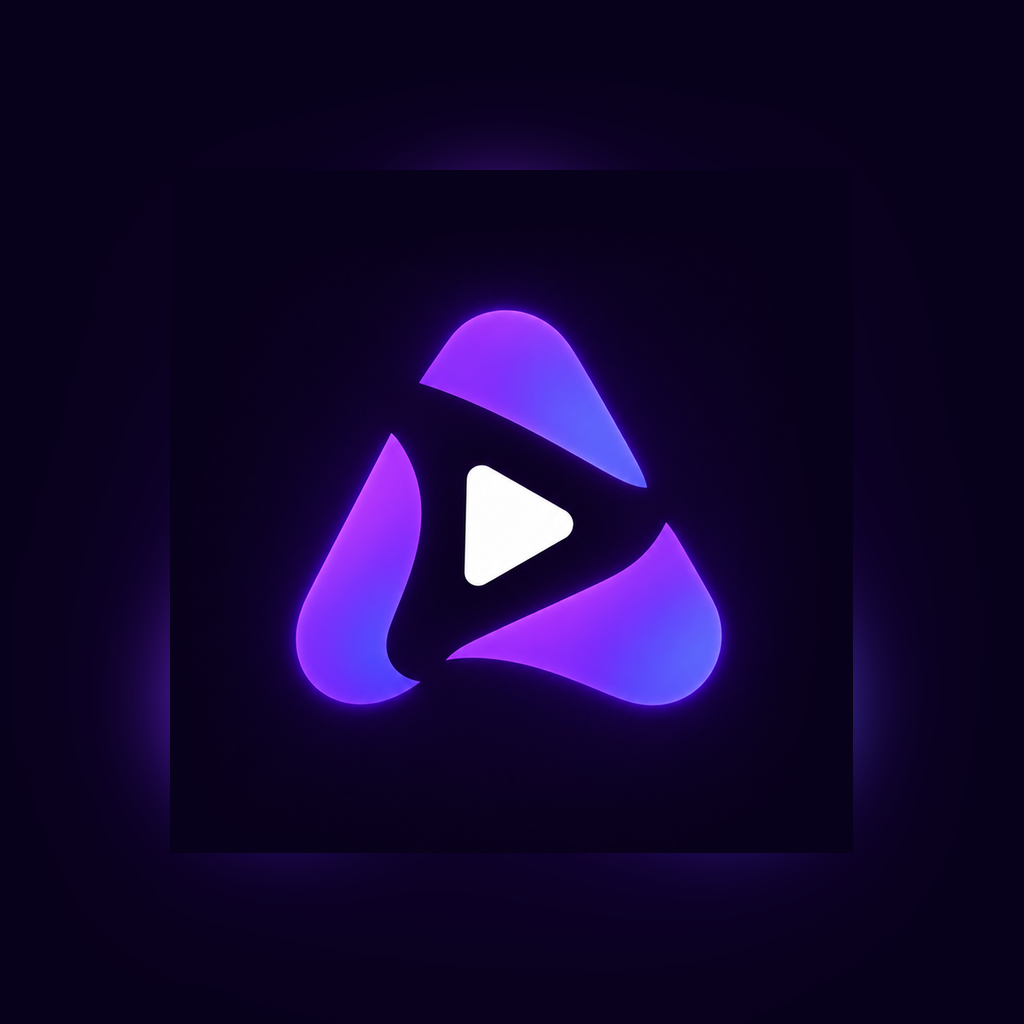
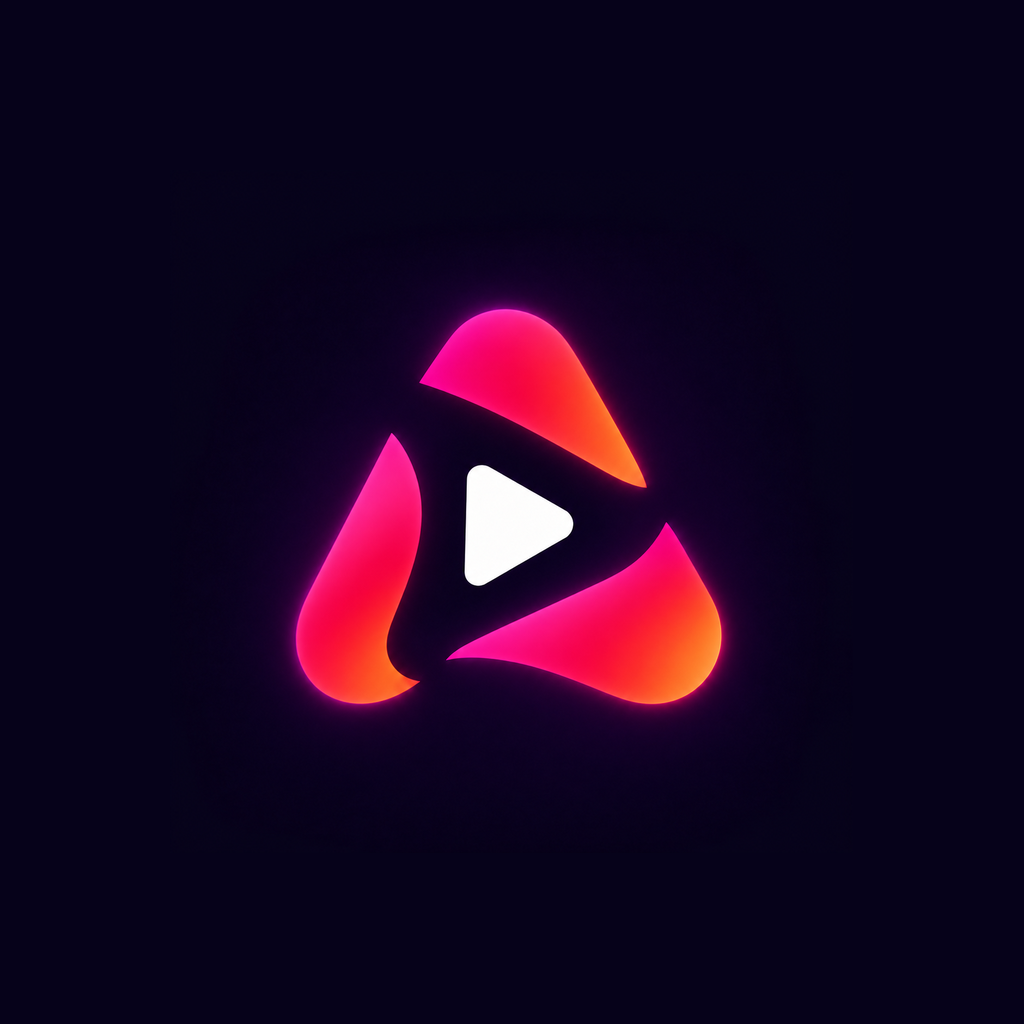
v0.12.1 double-tap guard waits for the page to open

diff --git a/src/constants/colors.ts b/src/constants/colors.ts
@@ -3,18 +3,17 @@
  * Screens use `const colors = useTheme()` and these token names.
  */
 
-// Brand palette (from the brief / logo)
+// Brand palette (new logo: magenta → red → sunset orange on deep night purple)
 export const palette = {
-  violet: "#7C3AED", // Electric Violet (gradient start)
-  indigo: "#6366F1", // Indigo (gradient end)
-  glow: "#8B5CF6", // Vibrant purple border / glow
+  magenta: "#E7237E", // Vibrant Magenta / Hot Pink — main accent, gradient start
+  strawberry: "#FF254C", // Bright Strawberry Red — glow, second accent
+  red: "#F31E37", // Vibrant Red — delete / destructive
+  orange: "#FF5622", // Sunset Orange-Red — gradient end
+  black: "#121212", // Matte Black — cards & containers (dark theme)
   deep: "#09011c", // App deep background (matches the logo background)
-  card: "#19112C", // Card & container background
   white: "#FFFFFF",
   slate: "#94A3B8", // Secondary text
-  lavender: "#A78BFA", // Muted accent text
-  canvas: "#D8C9F3", // Canvas (light surfaces)
-  danger: "#EF4444", // Delete / destructive
+  blush: "#FF8DBE", // Soft pink — accent text / icons on dark
 } as const;
 
 export type ThemeColors = {
@@ -52,29 +51,29 @@ export type ThemeColors = {
 export const darkColors: ThemeColors = {
   scheme: "dark",
   background: palette.deep,
-  surface: palette.card,
-  surfaceAlt: "#241A3D",
-  border: "rgba(139, 92, 246, 0.22)",
+  surface: palette.black,
+  surfaceAlt: "#1F1B23",
+  border: "rgba(231, 35, 126, 0.22)",
   text: palette.white,
   textMuted: palette.slate,
-  textAccent: palette.lavender,
-  primary: palette.violet,
-  primaryAlt: palette.indigo,
-  glow: palette.glow,
-  gradient: [palette.violet, palette.indigo],
+  textAccent: palette.blush,
+  primary: palette.magenta,
+  primaryAlt: palette.strawberry,
+  glow: palette.strawberry,
+  gradient: [palette.magenta, palette.orange],
   onPrimary: palette.white,
-  danger: palette.danger,
+  danger: palette.red,
   onDanger: palette.white,
   success: "#22C55E",
   onSuccess: palette.white,
-  overlay: "rgba(5, 0, 16, 0.72)",
-  tabBar: palette.card,
-  tabBarBorder: "rgba(139, 92, 246, 0.35)",
-  tabIcon: palette.lavender,
-  tabCutout: palette.violet,
-  tabInactive: "#6B6585",
-  skeleton: "#1D1433",
-  skeletonHighlight: "#2A1F47",
+  overlay: "rgba(5, 0, 12, 0.72)",
+  tabBar: palette.black,
+  tabBarBorder: "rgba(231, 35, 126, 0.35)",
+  tabIcon: palette.blush,
+  tabCutout: palette.magenta,
+  tabInactive: "#6E6670",
+  skeleton: "#1A171D",
+  skeletonHighlight: "#28232C",
   gold: "#FFC83D",
   goldGlow: "rgba(255, 200, 61, 0.55)",
   goldSoft: "rgba(255, 200, 61, 0.14)",
@@ -83,30 +82,30 @@ export const darkColors: ThemeColors = {
 
 export const lightColors: ThemeColors = {
   scheme: "light",
-  background: "#F6F2FD",
+  background: "#FFF5F8",
   surface: palette.white,
-  surfaceAlt: palette.canvas,
-  border: "#E3D8F6",
-  text: palette.card,
-  textMuted: "#64748B",
-  textAccent: palette.violet,
-  primary: palette.violet,
-  primaryAlt: palette.indigo,
-  glow: palette.glow,
-  gradient: [palette.violet, palette.indigo],
+  surfaceAlt: "#FCE4EE",
+  border: "#F5D2E1",
+  text: palette.black,
+  textMuted: "#6B6470",
+  textAccent: palette.magenta,
+  primary: palette.magenta,
+  primaryAlt: palette.strawberry,
+  glow: palette.strawberry,
+  gradient: [palette.magenta, palette.orange],
   onPrimary: palette.white,
-  danger: "#DC2626",
+  danger: palette.red,
   onDanger: palette.white,
   success: "#16A34A",
   onSuccess: palette.white,
-  overlay: "rgba(25, 17, 44, 0.45)",
+  overlay: "rgba(18, 18, 18, 0.45)",
   tabBar: palette.white,
   tabBarBorder: "transparent",
-  tabIcon: palette.card,
-  tabCutout: palette.violet,
-  tabInactive: "#9A93B5",
-  skeleton: "#EAE2F8",
-  skeletonHighlight: "#F4EFFC",
+  tabIcon: palette.black,
+  tabCutout: palette.magenta,
+  tabInactive: "#A39AA6",
+  skeleton: "#F8E6EE",
+  skeletonHighlight: "#FDF2F6",
   gold: "#B7791F",
   goldGlow: "rgba(245, 179, 1, 0.45)",
   goldSoft: "rgba(245, 179, 1, 0.16)",

diff --git a/src/utils/navLock.ts b/src/utils/navLock.ts
@@ -1,16 +1,38 @@
 /**
- * Stops a fast double tap from opening the same page twice (two pages stacked → Back twice).
- * Returns false if another navigation started less than 1 s ago.
+ * Stops a double tap from opening the same page twice (two pages stacked → Back twice).
+ *
+ * A time limit alone is not enough on a slow phone / dev build: the page can take more than 1 s
+ * to open, and the 2nd tap (queued while the app was busy) arrives after that. So:
+ * - after a tap starts a navigation, other taps are ignored until the new page is shown
+ *   (root layout calls navArrived() when the route changes), max 4 s;
+ * - and for 0.5 s after a page is shown (taps that were waiting in the queue).
  */
-const LOCK_MS = 1000; // also covers a slow second tap while the dev build is still opening the page
+const LOCK_MS = 1000;
+const PENDING_MAX_MS = 4000;
+const AFTER_ARRIVE_MS = 500;
 let last = 0;
+let pending = false;
+let arrivedAt = 0;
 
 export function canNavigate(what: string): boolean {
   const now = Date.now();
-  if (now - last < LOCK_MS) {
+  const busy =
+    now - last < LOCK_MS ||
+    (pending && now - last < PENDING_MAX_MS) ||
+    now - arrivedAt < AFTER_ARRIVE_MS;
+  if (busy) {
     if (__DEV__) console.log(`[nav] double tap ignored (${what})`);
     return false;
   }
   last = now;
+  pending = true;
   return true;
+}
+
+/** Root layout: the visible route changed (a page finished opening). */
+export function navArrived(path: string) {
+  if (pending && __DEV__)
+    console.log(`[nav] arrived ${path} in ${Date.now() - last}ms`);
+  pending = false;
+  arrivedAt = Date.now();
 }

diff --git a/src/app/_layout.tsx b/src/app/_layout.tsx
@@ -1,5 +1,5 @@
 import * as NavigationBar from "expo-navigation-bar";
-import { Stack } from "expo-router";
+import { Stack, usePathname } from "expo-router";
 import * as SplashScreen from "expo-splash-screen";
 import { StatusBar } from "expo-status-bar";
 import * as SystemUI from "expo-system-ui";
@@ -21,6 +21,7 @@ import { preloadVip } from "../data/vip";
 import { preloadWallet } from "../data/wallet";
 import { useTheme } from "../hooks/useTheme";
 import { NotificationsGate } from "../notifications/NotificationsGate";
+import { navArrived } from "../utils/navLock";
 
 // Outside the component (brief §5): keep the splash until the app is ready.
 SplashScreen.preventAutoHideAsync().catch(() => {});
@@ -70,6 +71,12 @@ function SplashGate() {
 
 export default function RootLayout() {
   const colors = useTheme();
+  const pathname = usePathname();
+
+  // a page finished opening → taps are accepted again (double-tap guard, src/utils/navLock.ts)
+  useEffect(() => {
+    navArrived(pathname);
+  }, [pathname]);
 
   useEffect(() => {
     if (__DEV__) console.log(`[app] theme ${colors.scheme}`);

diff --git a/src/notifications/index.ts b/src/notifications/index.ts
@@ -52,7 +52,7 @@ async function ensureChannel() {
     name: tNow()("notif.channel"),
     importance: Notifications.AndroidImportance.HIGH,
     vibrationPattern: [0, 180],
-    lightColor: palette.violet,
+    lightColor: palette.magenta,
   });
 }
 
